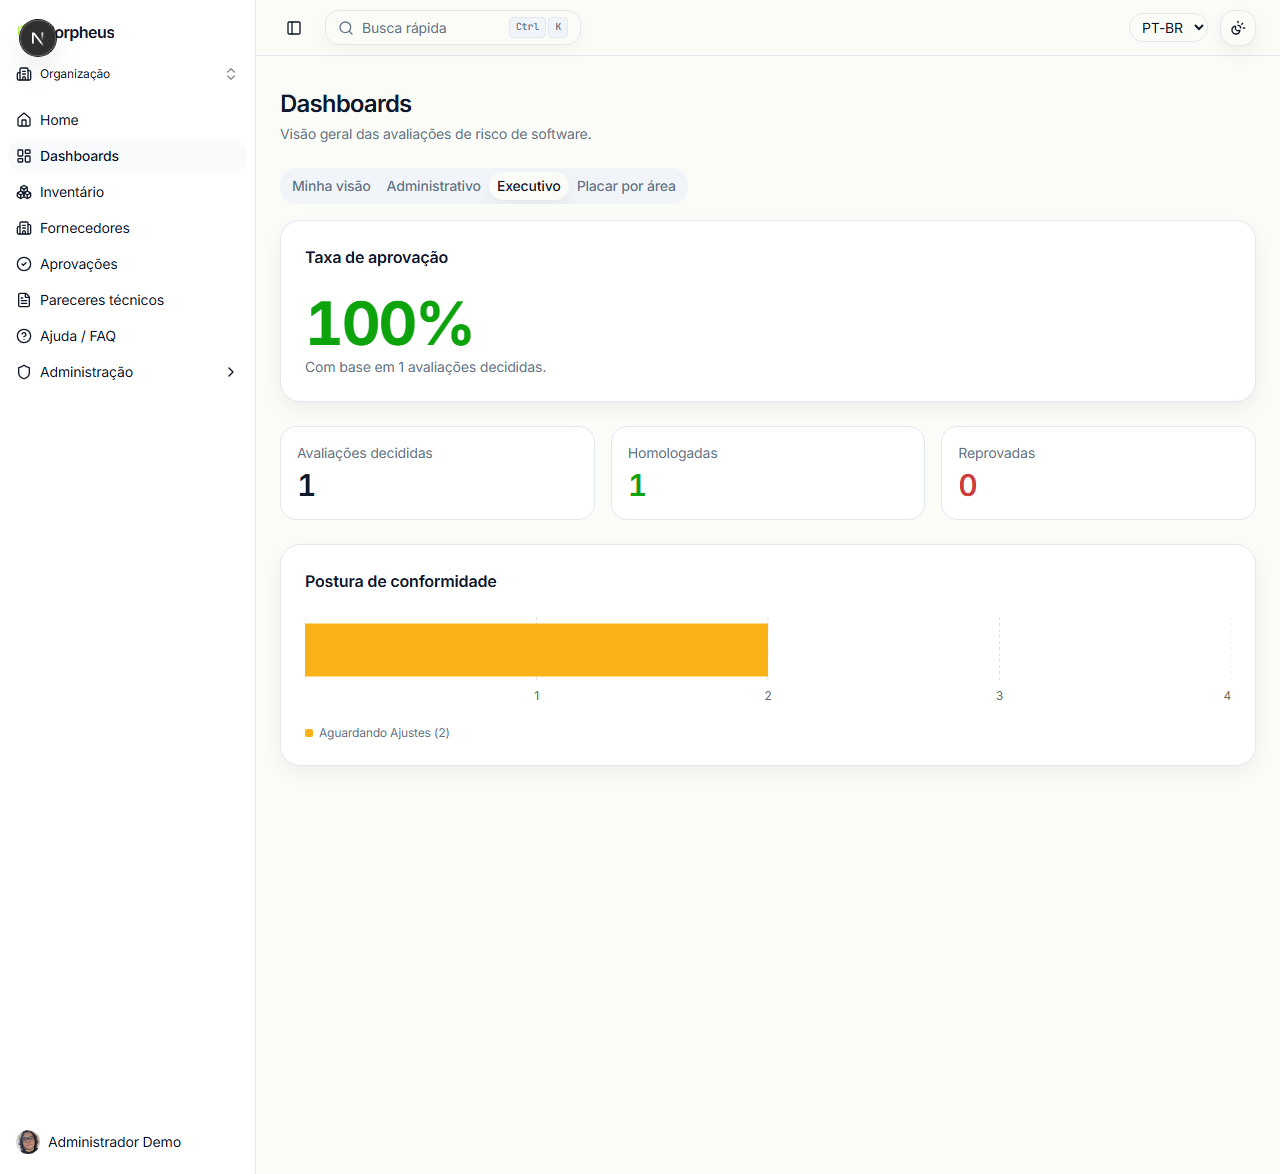
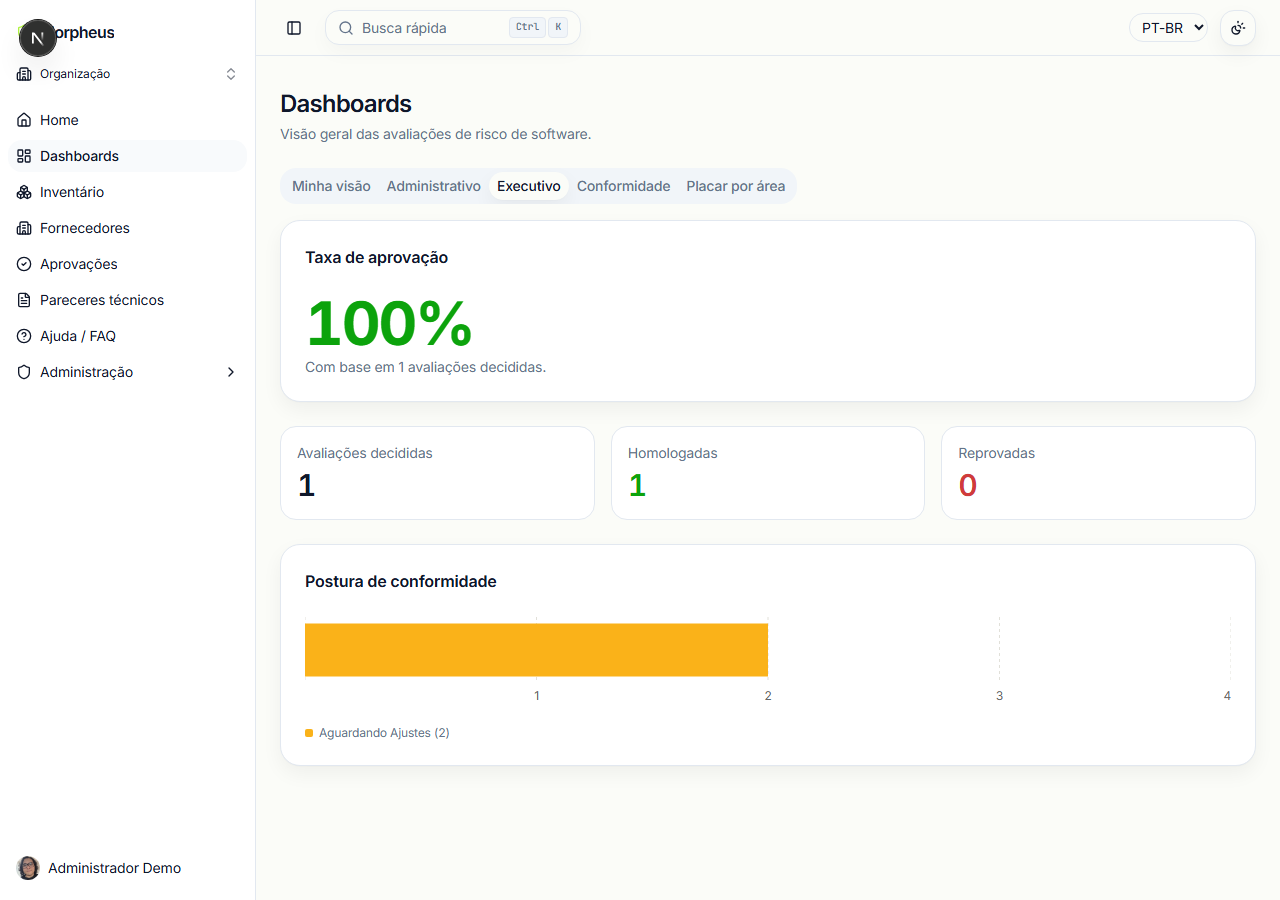
docs(dashboards): gráficos de conformidade CIS/NIST/ISO - Fase 4 (portfólio)
Fecha o arco: README (PT-BR+EN) documenta o catálogo de 77 controles/8
frameworks que já existia mas nunca tinha aparecido em nenhuma tela nem
documentação pública, com screenshot da nova aba "Conformidade". Regenerados
os 4 screenshots de /dashboards cuja barra de abas mudou. Reencontrado e
corrigido o gotcha já documentado de barras invisíveis em screenshots
fullPage headless (técnica: resize pro scrollHeight + captura sem fullPage).

diff --git a/README.md b/README.md
@@ -17,7 +17,8 @@ adotado pela empresa e o fornecedor por trás dele. Do questionário de risco à
 4. Parecer técnico em PDF, com QR Code de verificação.
 5. Inventário de software homologado, com ciclo de revisão periódica. Itens cadastrados manualmente
    (fora da homologação) passam por um gate de aprovação próprio antes de entrar em produção.
-6. Dashboards de postura de conformidade e placar de maturidade por área.
+6. Dashboards de postura de conformidade, conformidade contra frameworks de segurança (ISO 27001/
+   27002, NIST CSF, CIS Controls v8, LGPD, GDPR, OWASP ASVS/Top 10) e placar de maturidade por área.
 7. Avaliação de risco de fornecedores, com questionário inspirado no NIST SP 800-161, pontuação
    automática e Tiers de monitoramento com cadência de reavaliação configurável.
 
@@ -67,6 +68,20 @@ avaliado ou está com reavaliação vencida/próxima.
 | ART do fornecedor no detalhe do item | Acompanhamento de fornecedores |
 | --- | --- |
 | ![ART do fornecedor](./docs/screenshots/inventory-item-art.png) | ![Acompanhamento de fornecedores](./docs/screenshots/vendors-acompanhamento.png) |
+
+## Conformidade com frameworks de segurança (metodologia)
+
+Todo controle que uma pergunta do questionário avalia - seja do questionário de software ou do de
+fornecedor - é rastreado contra um catálogo de referência com 77 controles reais, cobrindo 8
+frameworks: ISO/IEC 27001:2022, ISO/IEC 27002, NIST Cybersecurity Framework (CSF 2.0), CIS Controls
+v8, LGPD, GDPR, OWASP ASVS e OWASP Top 10. A aba "Conformidade" em `/dashboards` cruza esse catálogo
+com a última avaliação já aprovada de cada software e a última concluída de cada fornecedor, e mostra,
+por framework, quantos "atendem" cada controle - um controle só conta como atendido quando todas as
+respostas do questionário vinculadas a ele estiverem dentro do limiar de risco aceitável.
+
+| Dashboard - conformidade com frameworks (CIS/NIST/ISO) |
+| --- |
+| ![Dashboard - conformidade](./docs/screenshots/dashboard-conformidade.png) |
 
 ## Controles de segurança implementados
 
@@ -130,6 +145,10 @@ Processo completo (camadas de risco, histórico de cada janela) em
 | Executivo | Placar por área |
 | --- | --- |
 | ![Dashboard - executivo](./docs/screenshots/dashboard-executivo.png) | ![Dashboard - placar por área](./docs/screenshots/dashboard-placar-por-area.png) |
+
+| Conformidade com frameworks (CIS/NIST/ISO) |
+| --- |
+| ![Dashboard - conformidade](./docs/screenshots/dashboard-conformidade.png) |
 
 | Login - seleção de organização | Busca rápida (Cmd/Ctrl+K) |
 | --- | --- |
@@ -248,7 +267,8 @@ by the company and the vendor behind it. From risk questionnaire to final decisi
 4. Technical opinion (PDF report), with a verification QR code.
 5. Homologated software inventory, with periodic review cycle. Manually registered items (outside the
    homologation flow) go through a dedicated approval gate before going live.
-6. Compliance-posture dashboards and a maturity leaderboard by area.
+6. Compliance-posture dashboards, compliance against security frameworks (ISO 27001/27002, NIST CSF,
+   CIS Controls v8, LGPD, GDPR, OWASP ASVS/Top 10), and a maturity leaderboard by area.
 7. Vendor risk assessment, with a questionnaire inspired by NIST SP 800-161, automatic scoring, and
    monitoring Tiers with configurable reassessment cadence.
 
@@ -297,6 +317,20 @@ overdue/upcoming reassessment.
 | Vendor ART on the item detail page | Vendor tracking |
 | --- | --- |
 | ![Vendor ART](./docs/screenshots/inventory-item-art-en.png) | ![Vendor tracking](./docs/screenshots/vendors-acompanhamento-en.png) |
+
+## Compliance with security frameworks (methodology)
+
+Every control a questionnaire question evaluates - whether from the software or the vendor
+questionnaire - is tracked against a reference catalog of 77 real controls, covering 8 frameworks:
+ISO/IEC 27001:2022, ISO/IEC 27002, NIST Cybersecurity Framework (CSF 2.0), CIS Controls v8, LGPD,
+GDPR, OWASP ASVS, and OWASP Top 10. The "Compliance" tab in `/dashboards` cross-references that
+catalog against each software's latest approved assessment and each vendor's latest completed one,
+and shows, per framework, how many "meet" each control - a control only counts as met when every
+questionnaire answer linked to it falls within the acceptable risk threshold.
+
+| Dashboard - compliance against security frameworks (CIS/NIST/ISO) |
+| --- |
+| ![Dashboard - compliance](./docs/screenshots/dashboard-conformidade-en.png) |
 
 ## Implemented security controls
 
@@ -357,6 +391,10 @@ Full process (risk tiers, per-window history) in [`docs/security.md`](./docs/sec
 | Executive | Leaderboard |
 | --- | --- |
 | ![Dashboard - executive](./docs/screenshots/dashboard-executivo-en.png) | ![Dashboard - leaderboard](./docs/screenshots/dashboard-placar-por-area-en.png) |
+
+| Compliance against security frameworks (CIS/NIST/ISO) |
+| --- |
+| ![Dashboard - compliance](./docs/screenshots/dashboard-conformidade-en.png) |
 
 | Login - organization picker | Quick search (Cmd/Ctrl+K) |
 | --- | --- |

diff --git a/docs/changelog/2026-08.md b/docs/changelog/2026-08.md
@@ -1393,3 +1393,33 @@ ver [`../CHANGELOG.md`](../CHANGELOG.md) para o índice completo.
     login como `usuario@morpheus.demo` (sem `assessments:view-all`) confirma que a aba nem aparece.
   - **Próximas fases**: Fase 4 (portfólio - README fecha o gap de documentação do catálogo de
     controles, screenshots novos da aba "Conformidade").
+- **Gráficos de conformidade CIS/NIST/ISO em `/dashboards` - Fase 4 (portfólio, fecha o arco).**
+  Milestone #20 fechado.
+  - **Gotcha real reencontrado, corrigido pela receita já documentada**: a primeira leva de
+    screenshots (`page.screenshot({fullPage:true})` puro) saiu com as barras do gráfico invisíveis
+    (confirmado via inspeção do DOM real - `<path fill="var(--chart-good)">` com largura correta
+    presente, cor resolvendo certo via `getComputedStyle`, mas ausente do PNG) - exatamente o
+    "headless-screenshot paint gotcha" já registrado em memória de sessões anteriores (PR #56, 2FA/
+    perfil). Corrigido com a técnica já documentada: medir `scrollHeight`, redimensionar o viewport
+    pra essa altura, aguardar um reflow curto, e capturar sem `fullPage` - resolve os dois gotchas
+    conhecidos de uma vez (o de pintura E o de sidebar `sticky` flutuando no meio da página em
+    capturas `fullPage`+scroll).
+  - **10 screenshots regenerados/criados** (PT-BR+EN): os 4 já existentes de `/dashboards`
+    (`dashboard-minha-visao`, `-administrativo`, `-executivo`, `-placar-por-area`) estavam
+    desatualizados porque compartilham a mesma barra de abas, que ganhou a aba nova "Conformidade" -
+    mesmo gatilho já documentado no projeto (mudança de UX cascada em qualquer screenshot que mostre
+    o elemento alterado). 2 novos (`dashboard-conformidade`/`-en`) mostrando o gráfico de CIS
+    Controls v8 (7 controles avaliados, cores corretas) e a tabela de detalhamento completa.
+  - **README (PT-BR+EN)**: nova seção "Conformidade com frameworks de segurança (metodologia)" /
+    "Compliance with security frameworks (methodology)", mesmo estilo das seções de metodologia já
+    existentes (Matriz de risco/NIST SP 800-30, Avaliação de fornecedores/NIST SP 800-161) - fecha o
+    gap de documentação real descoberto na investigação da Fase 1 (catálogo de 77 controles/8
+    frameworks já existia e já estava semeado, mas nunca tinha aparecido em tela nem no README). Item
+    6 da lista numerada de funcionalidades também atualizado para citar os 8 frameworks nominalmente.
+    Nova linha nas duas tabelas de screenshots ("Telas"/"Screenshots").
+  - **Testes**: revisão visual de cada um dos 10 screenshots (não assumido - aberto e conferido, iso
+    já corrigido o gotcha das barras invisíveis) + `grep` confirmando que todo caminho de screenshot
+    citado no README (PT-BR+EN) existe de fato em `docs/screenshots/`.
+  - **Fecha o arco inteiro** (Fases 1-4, PRs #133-#136, milestone #20): o catálogo de controles que
+    já existia silenciosamente desde antes desta feature agora tem uma tela dedicada, uma agregação
+    real cruzando os dois questionários (software + fornecedor), e documentação pública no README.
